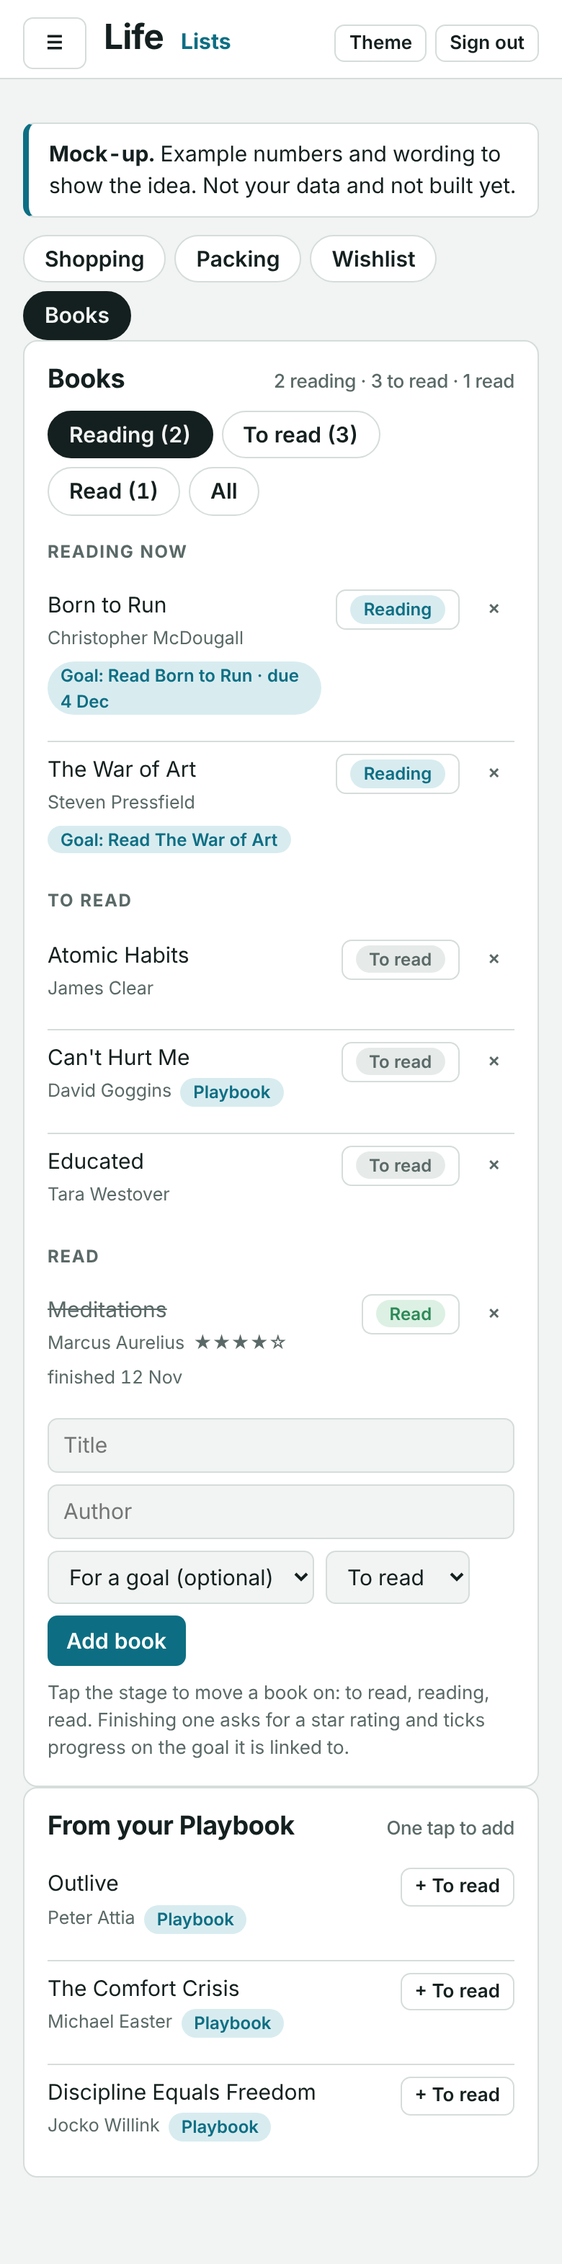
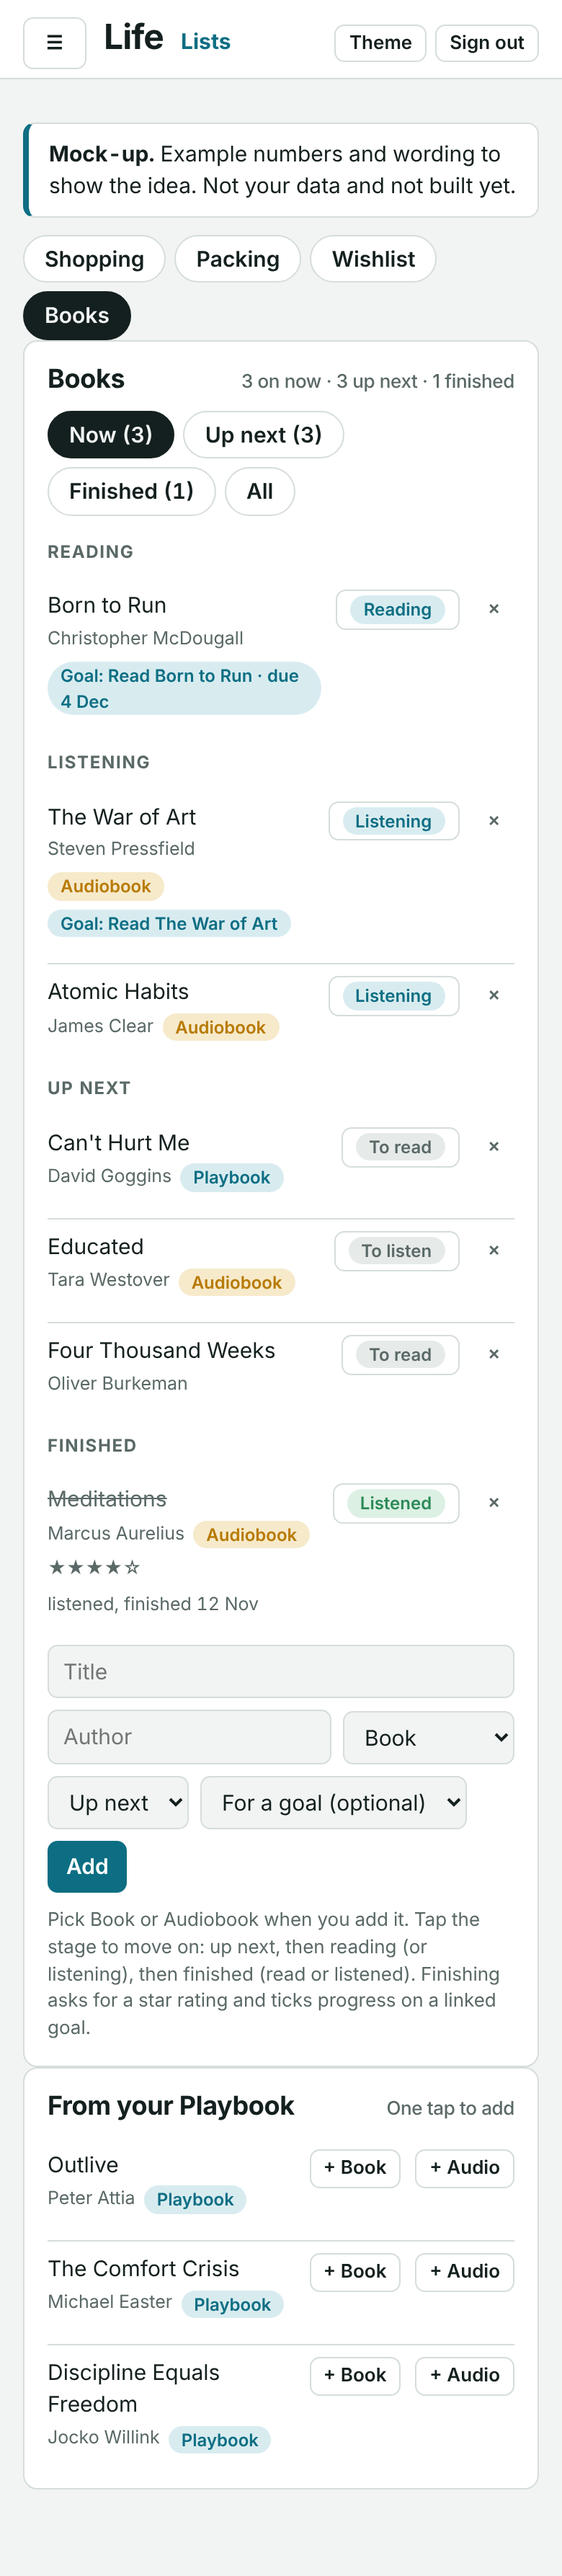
Docs: revise the Books and Money plan (audiobooks; payments, savings goals and bill pots, no expense tracking)
Claude-Session: https://claude.ai/code/session_01UzRxU9wB74hpEZybir2n3q

diff --git a/docs/life-books-and-money-plan.md b/docs/life-books-and-money-plan.md
@@ -1,82 +1,82 @@
 # Plan: a Books list and a Money section for the Life app
 
-Written 27 Nov 2026. Nothing here is built yet. The screenshots are **mock-ups made from the app's real styles, with example numbers**, to show the idea (the one real figure is your USA trip saving goal).
+Written 27 Nov 2026, revised the same day (audiobooks added; Money reduced to payments, savings goals and bill pots, with no expense tracking). Nothing here is built yet. The screenshots are **mock-ups made from the app's real styles, with example numbers**, to show the idea. The one real figure is your USA trip saving goal.
 
 ## Short answers
 
-- **Books to read:** a new **Books tab inside Lists** (next to Shopping, Packing and Wishlist). Not a new top-level menu item (the menu already has 13 sections) and not inside Playbook (that is a curated set of 24 books with directives, not a personal reading queue). It links to your **goals** (you already have "Read Born to Run" and "Read The War of Art") and offers your **Playbook** books for one-tap adding.
-- **Finance:** one new menu item, **Money**, under Life, with four tabs: Overview, Spending, Savings, Bills. Handled as private data (like Giving up).
+- **Books to read or listen to:** a new **Books tab inside Lists** (next to Shopping, Packing and Wishlist). Not a new top-level menu item (the menu already has 13 sections) and not inside Playbook (that is a curated set of 24 books, not a personal queue). It links to your **goals** ("Read Born to Run", "Read The War of Art") and offers your **Playbook** books for one-tap adding, as a book or an audiobook.
+- **Money:** one new menu item under Life with three tabs: **Overview, Pots, Payments**. It does **not** track what you spend. It tracks the things that are the same every month or year: regular payments, savings goals, and pots you fill for bills that are coming.
 
 ![Where they live](plan-screens/01-menu-placement.png)
 
-## 1. Books
+## 1. Books (read or listen)
 
 ![Books tab](plan-screens/02-books.png)
 
 **What it does**
-- Three stages, tapped to move on: **To read → Reading → Read** (the same tap-the-stage pattern the Wishlist uses).
-- Each book: title, author, optional **goal link** ("Goal: Read Born to Run, due 4 Dec"), optional **star rating** and **finished date** when it moves to Read.
-- Finishing a book that is linked to a goal ticks progress on that goal and offers "mark the goal achieved?".
-- **From your Playbook:** the 24 Playbook books you have not added yet, each with a "+ To read" button.
-- Filters: Reading, To read, Read, All.
+- Every book is a **Book** or an **Audiobook** (chosen when you add it). The wording follows the format: **To read / Reading / Read** for a book, **To listen / Listening / Listened** for an audiobook. The list shows Reading and Listening as separate groups under "Now".
+- Tap the stage to move a book on: up next, then now, then finished. Finishing asks for a **star rating** and sets the finished date.
+- Optional **goal link** ("Goal: Read Born to Run, due 4 Dec"). Finishing a linked book ticks progress on that goal and offers "mark the goal achieved?". A listened audiobook counts the same as a read book.
+- **From your Playbook:** the 24 Playbook books you have not added yet, each with "+ Book" and "+ Audio".
+- Filters: Now, Up next, Finished, All.
 
-**Data:** a new small table `life.books` (id, user_id, title, author, status `to_read|reading|read`, rating 1-5, goal_id, started_on, finished_on, playbook_key, note, sort_order, created_at). Own-row security like the other Life tables. The existing `list_items` table is not reused because it has no author, rating, goal or dates and a fixed list of list types.
+**Data:** a new small table `life.books`: id, user_id, title, author, **format** (`book` or `audio`), status (`to_read`, `reading`, `read`, shown as listen / listening / listened for audiobooks), rating 1-5, goal_id, started_on, finished_on, playbook_key, note, sort_order, created_at. Own-row security like the other Life tables. The existing `list_items` table is not reused because it has no author, format, rating, goal or dates.
 
-**Extras, optional:** a "Books finished" card in Wrapped; "Currently reading" under Today's habits.
+**Extras, optional:** a "Books finished" card in Wrapped (read and listened counted separately); "Currently reading / listening" on Today.
 
 **Effort:** about an hour (one migration, one pure module with tests, the new tab, browser check).
 
 ## 2. Money
 
 ### Principles
-- **GBP only**, entered by hand first (fast capture matters more than perfect data). No bank connection: it needs a paid aggregator service, widens what is exposed, and is the part most likely to break. A **CSV import** of a bank export can come later.
-- **Nudges, never blocks**, like the rest of the app: over budget turns amber, nothing stops you.
-- **Private by default:** the Money tables follow the Giving up rules (own-row only, never cached offline, backup only if you tick "Include Money", covered by the app lock's private scope). One deliberate exception is discussed under decisions below.
+- **No expense tracking.** It never asks you to log a coffee. It only holds numbers you set once and tick off: regular payments, pots, and a monthly transfer checklist.
+- **GBP only.** Nothing reads your bank, so every figure is only as good as what you keep up to date, and the app says so.
+- **Nudges, never blocks**, like the rest of the app.
+- **Private by default:** the Money tables follow the Giving up rules (own-row only, never cached offline, backup only if you tick "Include Money", covered by the app lock's private scope). One deliberate exception is in the decisions below.
 
 ### Screens
 
-**Overview** (where you stand this month, the USA trip fund, where it went, bills coming up)
+**Overview:** this month's regular payments, what to move into pots, and (optionally) what is left of your income. Below that, the transfer checklist, what is going out soon, and where each pot stands.
 
 ![Money overview](plan-screens/03-money-overview.png)
 
-**Spending** (add in five seconds: amount, category chip, optional note, optional "repeats monthly"; today and yesterday; budgets per category)
+**Pots:** two kinds. A **savings goal** pot (like the USA trip) and an **upcoming bill** pot (like the MOT or car tax). For a bill pot the app works out the monthly amount: what is still needed divided by the 1sts left before it is due. The **Moved £X** button is how you tell it you made the transfer in your banking app; it adds that amount to the pot.
 
-![Money spending](plan-screens/04-money-spending.png)
+![Money pots](plan-screens/04-money-pots.png)
 
-**Savings and bills** (pots for things you are putting money aside for, bills and renewals with next due dates)
+**Payments:** your regular payments grouped as every month, every year and one-off, with the monthly total. A yearly or one-off payment can be **covered by a pot**, and the ones that are not covered are flagged with "Make a pot".
 
-![Savings and bills](plan-screens/05-money-savings-and-bills.png)
+![Money payments](plan-screens/05-money-payments.png)
 
 ### How it ties into what you already have
-- **Your savings goal.** "Save £500 per month for USA trip" (£1,500 of £4,500 by 30 Apr 2027) becomes a **pot**. Adding money to the pot updates the goal's progress automatically, the same way weigh-ins update a weight goal. The pot starts with a £1,500 opening deposit so nothing is lost.
-- **Renewals** (car insurance, MOT, passport) already count down in Events; bills with a yearly or one-off cadence would show there too.
-- **"Copy month for Claude"** (like the weekly check-in): one tap copies the month's totals by category, budgets, savings progress and bills as text, to paste into your Claude fitness-style project for a monthly money review.
+- **Your savings goal.** "Save £500 per month for USA trip" (£1,500 of £4,500 by 30 Apr 2027) becomes a savings pot. Adding money to it updates the goal's progress automatically, the same way weigh-ins update a weight goal. It starts with a £1,500 opening deposit.
+- **A finding about that goal.** Counting the transfers properly from 27 Nov, there are five left before 30 Apr (1 Dec, 1 Jan, 1 Feb, 1 Mar, 1 Apr). £500 each takes you from £1,500 to **£4,000, not £4,500**. £4,500 by 30 Apr needs **£600 a month**, or the 1 May payment. The Pots screen shows this ("£500 short") so it does not sneak up on you.
+- **Renewals** (MOT, car tax, passport) count down in Events when they are yearly or one-off payments.
+- **Reminders:** payments due in the next few days show on Today and in the morning notification, and Today nudges on pay day until the pot transfers are ticked off.
 
 ### Data (all `life` schema, own-row security)
 | Table | Holds |
 |---|---|
-| `money_entries` | entry_date, amount (> 0), category, note |
-| `money_budgets` | category, monthly_amount |
-| `money_pots` | name, target, target_date, optional goal_id, sort_order |
-| `money_deposits` | pot_id, amount (negative for a withdrawal), deposited_on, note. A pot's balance is the sum. |
-| `money_bills` | title, amount, cadence (monthly / yearly / one-off), next_due, active |
+| `money_payments` | title, amount, cadence (weekly / monthly / yearly / one-off), next_due, optional pot_id (covered by), active |
+| `money_pots` | name, kind (`saving` or `bill`), target amount, target_date, optional monthly_amount override, optional goal_id, sort_order |
+| `money_deposits` | pot_id, amount (negative for taking money out), deposited_on, note. A pot's balance is the sum. |
+| settings | optional monthly income and pay day (in the existing settings record, no new table) |
 
-Default categories: Food and drink, Eating out, Fuel, Fun, Home, Other (editable).
+The monthly maths (transfers left, suggested amount, "short" or "on track", monthly total of regular payments, weekly and yearly converted to a monthly figure) lives in one pure module with unit tests.
 
 ### Build order
-1. **Spending, budgets and Overview**: the core. About 2 to 3 hours with tests and browser checks.
-2. **Savings pots**, including the link to the USA trip goal. About 1 hour.
-3. **Bills**, with Today nudges, Events countdown for yearly ones and the morning notification line. About 1 hour.
-4. **Later, only if wanted:** monthly "Copy for Claude", CSV import, a net-worth line, a Wrapped money card, and USA trip fund against the trip planner's costs.
+1. **Payments and Overview:** about 1 to 2 hours.
+2. **Pots**, including the "Moved £X" transfers and the link to the USA trip goal: about 2 hours.
+3. **Reminders:** morning notification line, Today nudge, Events countdown: about 1 hour.
+4. **Later, only if wanted:** "Copy for Claude" monthly review, a net-worth line, a Wrapped money card.
 
-Books first (it is small), then Money 1, 2, 3.
+Books first (small), then Money 1, 2, 3.
 
 ## Decisions for you
 
-1. **Books:** Lists tab with its own table, as above. OK?
-2. **Money placement:** a normal item under Life (as drawn), or inside the **Private** group next to Giving up, behind the app lock? Recommendation: under Life, but covered by the private lock scope.
-3. **Bill reminders:** the morning notification can only name a bill if the notification function may read the bills table. Recommendation: allow it for **bills only**, and keep spending, budgets and savings unreadable by any function. Or no bill notifications at all.
-4. **Budgets:** per category (as drawn) or one monthly total?
-5. **Income:** track it, or only spending and savings (the budget is simply your monthly spending allowance)? Recommendation: spending and savings only.
-6. **Categories:** keep the six defaults or change them?
-7. **Bank connection:** confirm manual entry first with CSV import later.
+1. **Books:** Lists tab, its own table, Book or Audiobook on every title. OK?
+2. **Money placement:** a normal item under Life (as drawn), or inside the **Private** group next to Giving up, behind the app lock? Recommendation: under Life, covered by the private lock scope.
+3. **Payment reminders:** the morning notification can only name a payment if the notification function may read the payments table. Recommendation: allow it for **payments only** and keep pots and deposits unreadable by any function. Or no payment reminders.
+4. **Monthly income:** type it once so the Overview can show "left after regular payments and pots"? Or leave the income out and show only the two outgoing totals?
+5. **Pay day:** which day of the month do you move money (the drawings assume the 1st)?
+6. **The USA goal:** keep £500 a month and accept £4,000 by 30 Apr, raise it to £600, or move the target date to 31 May?
